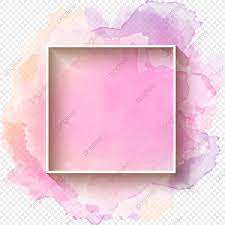
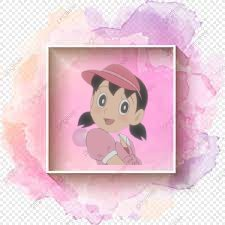
section 2

Changed region(s): [[0.3111, 0.28, 0.6844, 0.7467]]

diff --git a/index.html b/index.html
@@ -36,6 +36,35 @@
 
         </div>
     </section>
+    <section clas="dream-big">
+        <div class="display">
+            <img src="download (1).png" alt="pic of shizuka">
+        </div>
+        <div class="display">
+
+            <h1>
+                DREAM AREA </h1>
+            <h3>
+                Become a Web developer !!
+            </h3>
+            <P>
+                I has learned HTML and CSS basic just .Now I am tring
+                to make a Portfolio . I felt some problems to making the first
+                section . But I somehow overcome the problems. Now I am tring
+                to make the second section . My goal is to build 3 websites and learn advanced topics.
+                <a target="_blank" href="https://www.photopea.com/"> photopea</a>
+
+            </P>
+        </div>
+
+
+
+        </div>
+    </section>
+
+
+
+
 
 </body>
 

diff --git a/style.css b/style.css
@@ -13,7 +13,8 @@ h1 {
 }
 
 section {
-    display: flex
+    display: flex;
+    margin-bottom: 100px;
 }
 
 .display {
